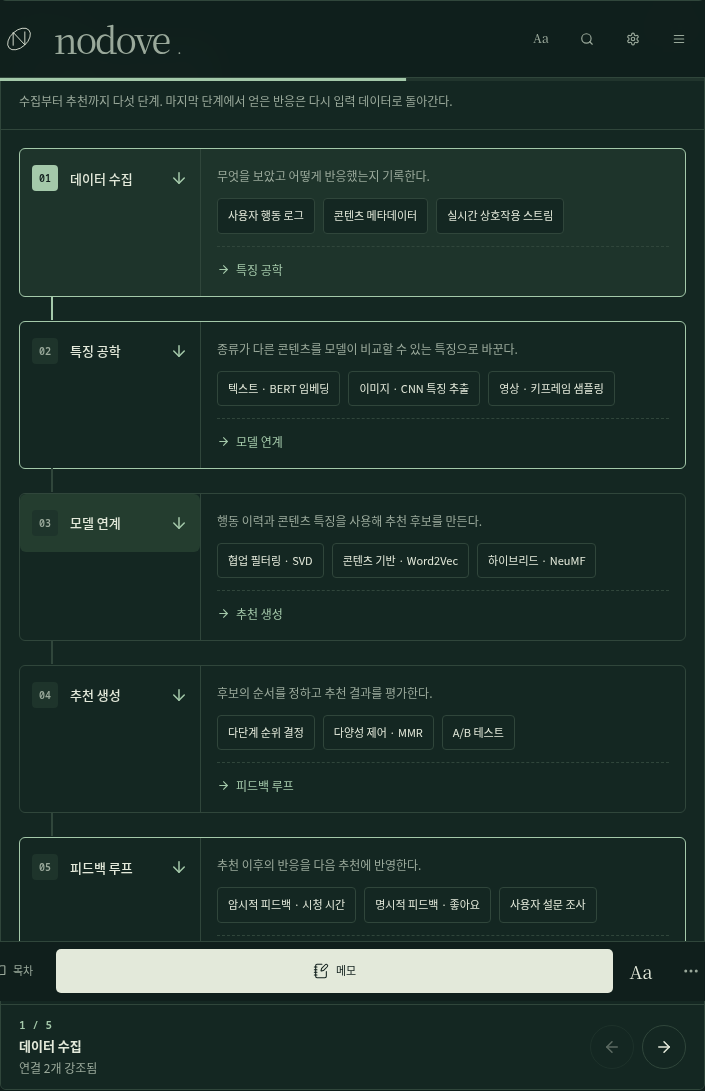
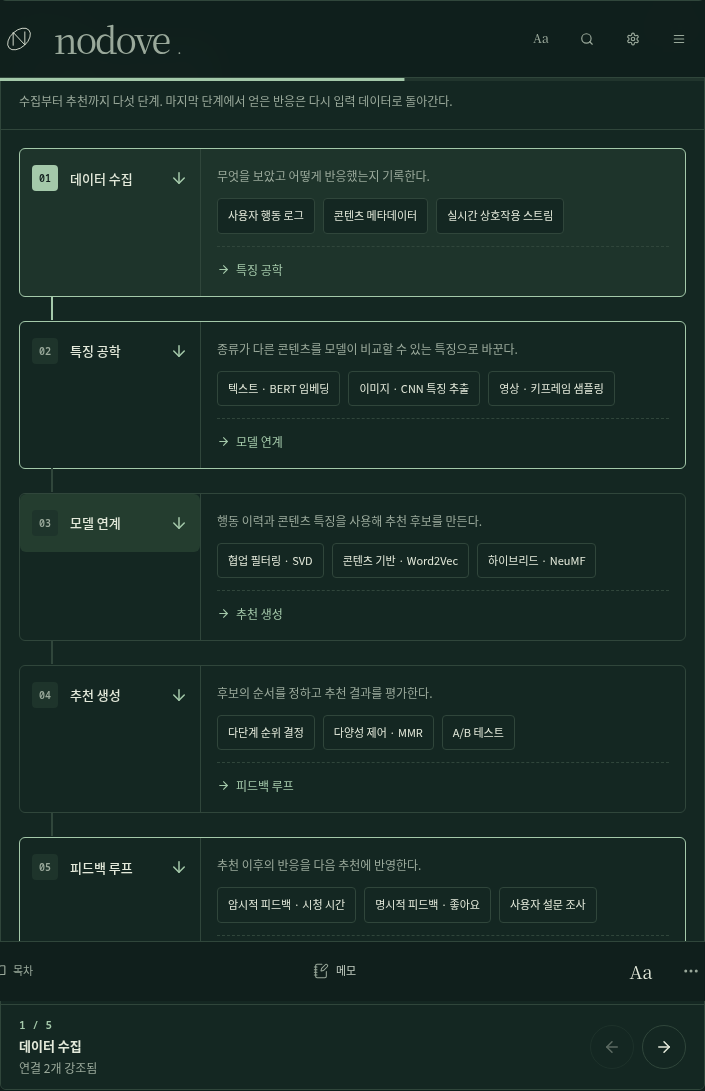
test(e2e): align reader fixtures with ownership and mobile behavior

Changed region(s): [[0.0624, 0.8726, 0.8738, 0.9349]]

diff --git a/frontend/e2e/fieldnotes-design.spec.ts b/frontend/e2e/fieldnotes-design.spec.ts
@@ -164,8 +164,10 @@ for (const theme of ['light', 'dark']) {
       await memo.evaluate(async element => {
         await Promise.all(element.getAnimations().map(animation => animation.finished));
       });
-      await expect.poll(async () => Math.round((await memo.boundingBox())!.height)).toBe(width > 850 ? 976 : 940);
-      await expect.poll(async () => Math.abs((await memo.boundingBox())!.y - (width > 850 ? 12 : 60))).toBeLessThan(1);
+      const expectedTop = width <= 640 ? 0 : width > 850 ? 12 : 60;
+      const expectedHeight = width <= 640 ? 1000 : width > 850 ? 976 : 940;
+      await expect.poll(async () => Math.round((await memo.boundingBox())!.height)).toBe(expectedHeight);
+      await expect.poll(async () => Math.abs((await memo.boundingBox())!.y - expectedTop)).toBeLessThan(1);
       const box = (await memo.boundingBox())!;
       expect(box.x).toBeGreaterThanOrEqual(0);
       expect(box.x + box.width).toBeLessThanOrEqual(width);
@@ -174,7 +176,7 @@ for (const theme of ['light', 'dark']) {
         expect(box.width).toBe(420);
         expect(box.y).toBe(12);
       } else {
-        expect(Math.abs(box.y - 60)).toBeLessThan(1);
+        expect(Math.abs(box.y - expectedTop)).toBeLessThan(1);
       }
       const editor = memo.locator('textarea.memo-input');
       const draft = `검토 메모 ${theme} ${width}\n본문을 읽으며 남긴 생각`;
@@ -211,6 +213,9 @@ test('real code, table and mobile TOC use the refined reader surfaces', async ({
   await table.scrollIntoViewIfNeeded();
   expect(await table.evaluate(e=>e.scrollWidth>e.clientWidth)).toBe(true);
   expect(await page.evaluate(()=>document.documentElement.scrollWidth)).toBeLessThanOrEqual(390);
+  // Scrolling up reveals the compact reading actions after reading down the page.
+  await expect(page.locator('.fn-reader-mobilebar')).toHaveAttribute('data-scroll-hidden', 'true');
+  await page.evaluate(() => window.scrollBy({ top: -80, behavior: 'instant' }));
   const trigger=page.locator('.fn-reader-toc-trigger');
   await expect(trigger).toHaveText('목차');
   await trigger.click();
@@ -235,7 +240,11 @@ test('TOC follows large section jumps and opens at the current mobile section', 
     const last = page.locator('.article-flow h2').last();
     const title = (await last.innerText()).replace(/\s+/g, ' ').trim();
     await last.evaluate(element => window.scrollTo({ top: element.getBoundingClientRect().top + window.scrollY - 110, behavior: 'instant' }));
-    if (width < 850) await page.locator('.fn-reader-toc-trigger').click();
+    if (width < 850) {
+      await expect(page.locator('.fn-reader-mobilebar')).toHaveAttribute('data-scroll-hidden', 'true');
+      await page.evaluate(() => window.scrollBy({ top: -32, behavior: 'instant' }));
+      await page.locator('.fn-reader-toc-trigger').click();
+    }
     const toc = page.locator(width < 850 ? '.ui-toc-drawer' : '.rd-left');
     const active = toc.locator('.ui-toc-item[aria-current="location"]');
     await expect(active).toHaveAttribute('title', title);

diff --git a/frontend/e2e/sentio-exploration.spec.ts b/frontend/e2e/sentio-exploration.spec.ts
@@ -9,7 +9,12 @@ async function setup(page: Page, theme: string, baseURL: string | undefined) {
     localStorage.setItem('aiMemo.fab.enabled', 'false');
     localStorage.setItem(
       'anon.token',
-      `fixture.${btoa(JSON.stringify({ sub: 'test-reader', exp: Math.floor(Date.now() / 1000) + 3600 }))}.fixture`
+      // The browser checks continuity claims; fixture requests never leave this page.
+      `fixture.${btoa(JSON.stringify({
+        sub: 'anon-00000000-0000-0000-0000-000000000001',
+        role: 'anonymous', tokenClass: 'anonymous', type: 'access',
+        exp: Math.floor(Date.now() / 1000) + 172800,
+      })).replace(/\+/g, '-').replace(/\//g, '_').replace(/=+$/, '')}.fixture`
     );
     const originalFetch = window.fetch.bind(window);
     let turn = 0;

diff --git a/frontend/e2e/reading-design.spec.ts b/frontend/e2e/reading-design.spec.ts
@@ -155,6 +155,8 @@ test('mobile TOC has a single close control and a labelled keyboard scroll viewp
   await page.setViewportSize({ width: 390, height: 844 });
   await openFixture(page);
   await page.evaluate(() => window.scrollTo(0, 700));
+  await expect(page.locator('.fn-reader-mobilebar')).toHaveAttribute('data-scroll-hidden', 'true');
+  await page.evaluate(() => window.scrollBy({ top: -80, behavior: 'instant' }));
   const trigger = page.getByTestId('toc-mobile-trigger');
   await expect(trigger).toBeVisible();
   await trigger.click();

diff --git a/verification/worktree-delivery-20260911/README.md b/verification/worktree-delivery-20260911/README.md
@@ -41,6 +41,12 @@ A fresh `git archive origin/main frontend shared` baseline was run against the s
 
 Of the 96 integrated failed assertions, 92 have matching baseline failure names. Four integrated-only failures are in FloatingActionBar.feature-flag.test.tsx; all eight tests in that file pass in the focused changed-file run. Baseline also has a different FAB failure. These remain order/timing-sensitive candidates, not confirmed resolved defects. Three suite-loading failures and the Radix scrollIntoView unhandled error occur in both runs. `frontend-baseline-comparison.json` includes the exact failure-name sets; matching names alone do not prove matching causes.
 
+## Browser integration follow-up
+
+A local run of all 102 existing Playwright cases against the production build (system Chromium, four workers) produced 79 passed, 6 skipped, and 17 failed. Diagnosis identified stale E2E assumptions: the supplied anonymous token did not satisfy the new continuity claims, the <=640px notebook now intentionally fills the viewport, and the mobile reading toolbar becomes inert while scrolling downward. The test fixture now uses the existing anonymous claim contract with a two-day expiry; external requests remain blocked. Geometry checks cover the full-screen mobile and docked/tablet layouts. TOC cases wait for downward concealment and scroll upward before interacting, preserving active-section and focus checks.
+
+The targeted follow-up passed 17 of 18 cases; its remaining scroll-event race was fixed by awaiting the concealed state, and that case passed on rerun. Six article screenshot artifacts regenerated by the passing cases are included. The final GitHub run remains the authoritative complete browser-suite result.
+
 ## Operational follow-ups
 
 Migrations 0039–0041, private reader-image R2 provisioning, live provider execution, and staging/canary deployment remain outside this Git delivery verification. Reader images and translation execution/warming stay disabled in configuration. Existing implementation plans retain their incomplete checkboxes; this delivery does not mark future planned features or live environment verification complete.
